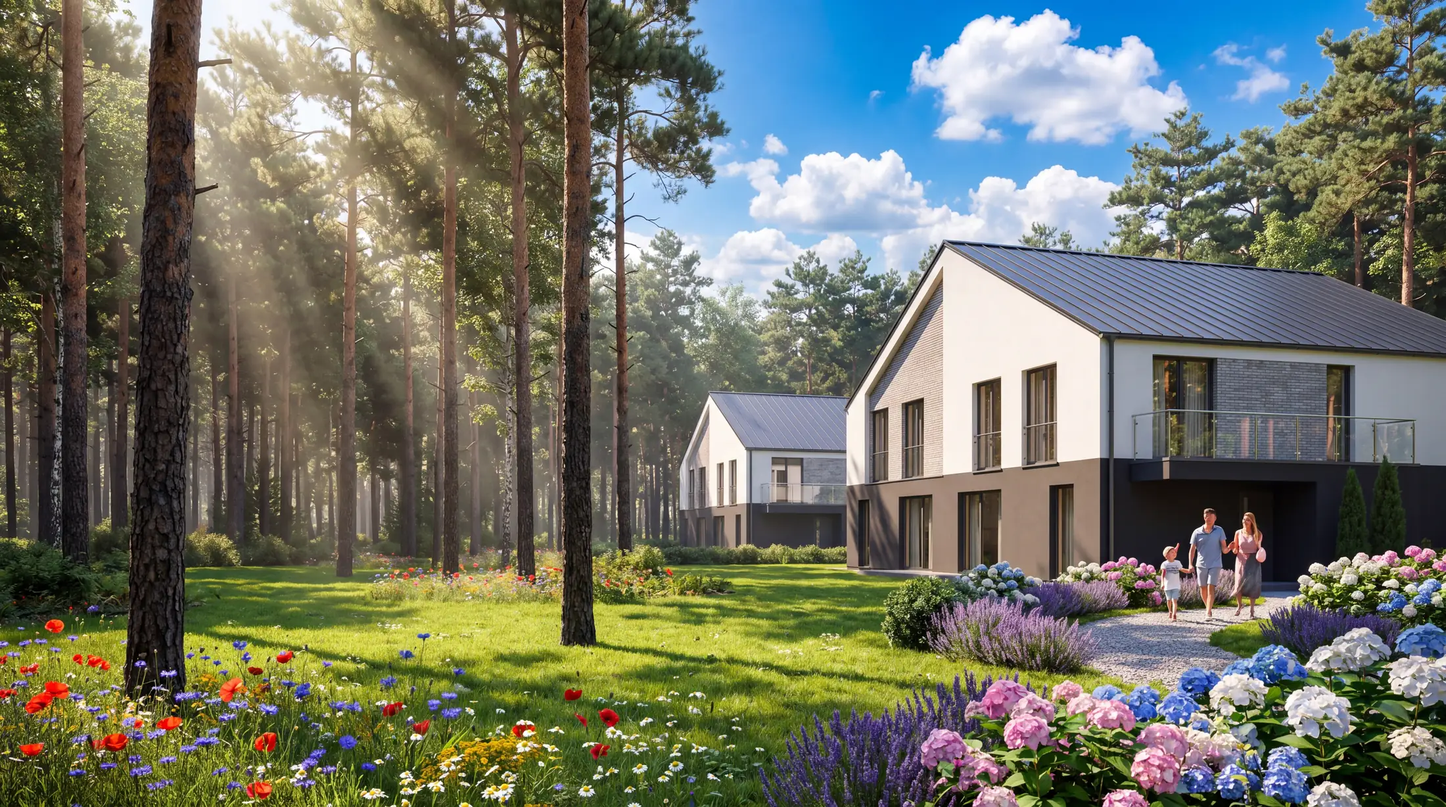
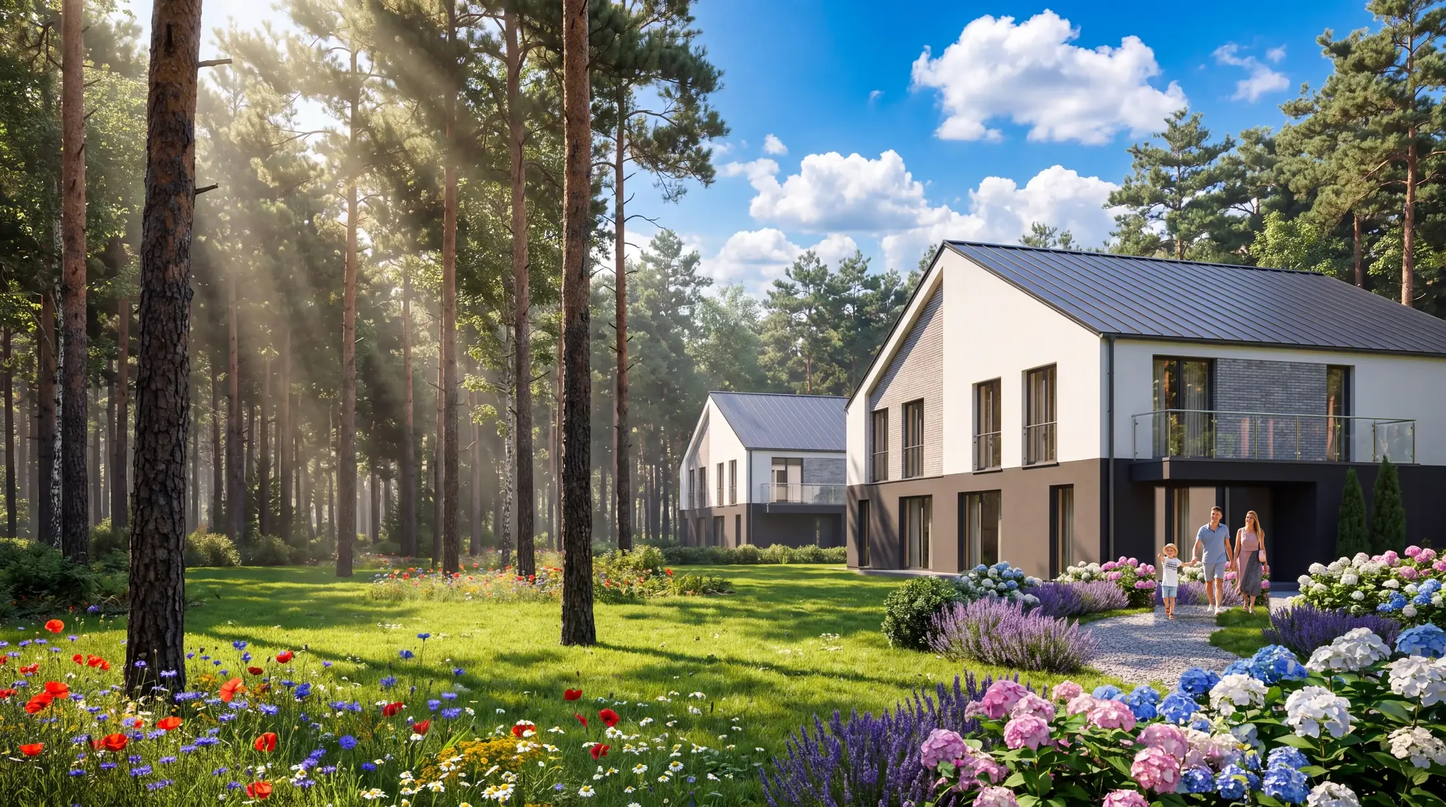
poprawiona rodzina na hero i wyzsza jakosc kodowania renderu
Dziecku wyrastal z glowy czerwony ksztalt, dlonie rodzicow zlewaly sie
w jedna plame, a same postacie byly wyraznie bardziej rozmyte niz
architektura - w oryginale maja tylko okolo 170 px wysokosci.

Bryly budynku nie mozna bylo puscic przez generator: kazdy model
przekomponowuje cala scene i podmienia projekt. Zamiast tego
scripts/hero-rodzina.mjs lata tlo po starych postaciach materialem
z tego samego kadru, wkleja wyciete sylwetki w skali i na linii gruntu
oryginalu, po czym dokłada miekkie cienie kontaktowe. Architektura,
kadr, swiatlo i zielen zostaja nietkniete.

Zrodla (oryginal dewelopera i wycinka) leza w .hero-src/ poza
repozytorium, tak jak paczki dollhouse - skrypt odtwarza z nich wynik.

Osobno: hero szedl na quality 62, najnizszej z listy w next.config.
Przy zblizeniu widac bylo rozmyty zwir i lawende. Teraz 80, poster
spaceru 68 -> 75. Serwowany plik 1920w rosnie z 251 do 355 kB, ale
wariant mobilny jest maly, wiec Lighthouse mobile idzie 83 -> 85,
LCP 4,6 -> 4,3 s. Dostepnosc nadal 100.

Changed region(s): [[0.7727, 0.5879, 0.8964, 0.8046]]

diff --git a/lib/blur.ts b/lib/blur.ts
@@ -1,6 +1,6 @@
 // Wygenerowane przez scripts/assets.mjs - placeholdery blur dla next/image.
 export const BLUR = {
[5 lines of base64/hex data omitted]

diff --git a/next.config.ts b/next.config.ts
@@ -5,15 +5,15 @@ const nextConfig: NextConfig = {
     formats: ["image/avif", "image/webp"],
     deviceSizes: [360, 480, 640, 768, 1024, 1280, 1536, 1920, 2400],
     // bez tej listy Next ignoruje `quality` na <Image> i wraca do 75
-    qualities: [62, 68, 75],
+    qualities: [62, 68, 75, 80],
   },
   poweredByHeader: false,
   compress: true,
   async headers() {
     return [
       {
-        // Long-lived cache for stable visual assets (orbit frames, renders,
-        // unit views, maps) - they are generated once and rarely change.
+        // Długi cache dla stabilnych assetów (klatki obrotu, rendery, rzuty
+        // lokali, mapy) - powstają raz i praktycznie się nie zmieniają.
         source: "/:folder(orbit|renders|unit-views|map|brand)/:path*",
         headers: [
           { key: "Cache-Control", value: "public, max-age=2592000, stale-while-revalidate=86400" },

diff --git a/components/VirtualTour.tsx b/components/VirtualTour.tsx
@@ -151,7 +151,7 @@ export default function VirtualTour() {
             alt="Budynek osiedla Plażowa Park o zmierzchu w sosnowym lesie"
             fill
             sizes="(max-width: 767px) 200vw, 100vw"
-            quality={68}
+            quality={75}
             placeholder="blur"
             blurDataURL={BLUR.tour}
             className="object-cover object-[center_38%]"

diff --git a/components/Hero.tsx b/components/Hero.tsx
@@ -20,7 +20,7 @@ export default function Hero() {
           alt="Dom Plażowa Park w sosnowym lesie, rodzina na ścieżce prowadzącej do wejścia"
           fill
           priority
-          quality={62}
+          quality={80}
           sizes="100vw"
           placeholder="blur"
           blurDataURL={BLUR.hero}
